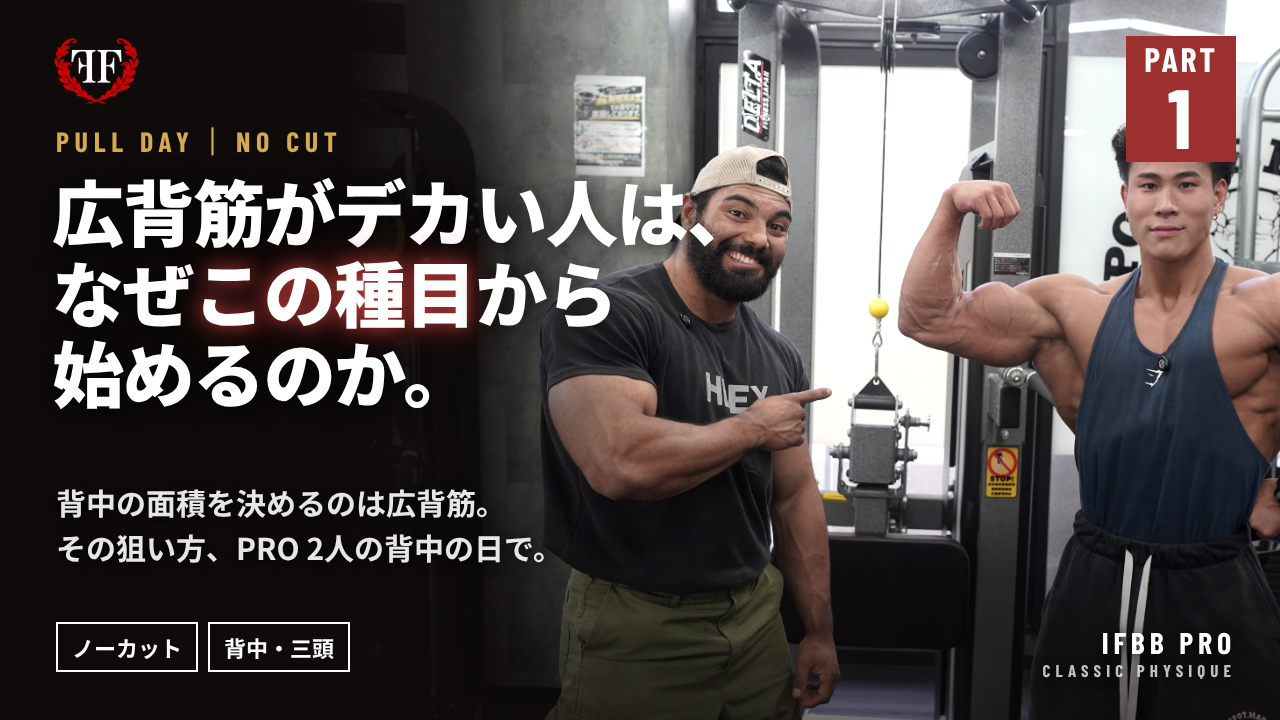
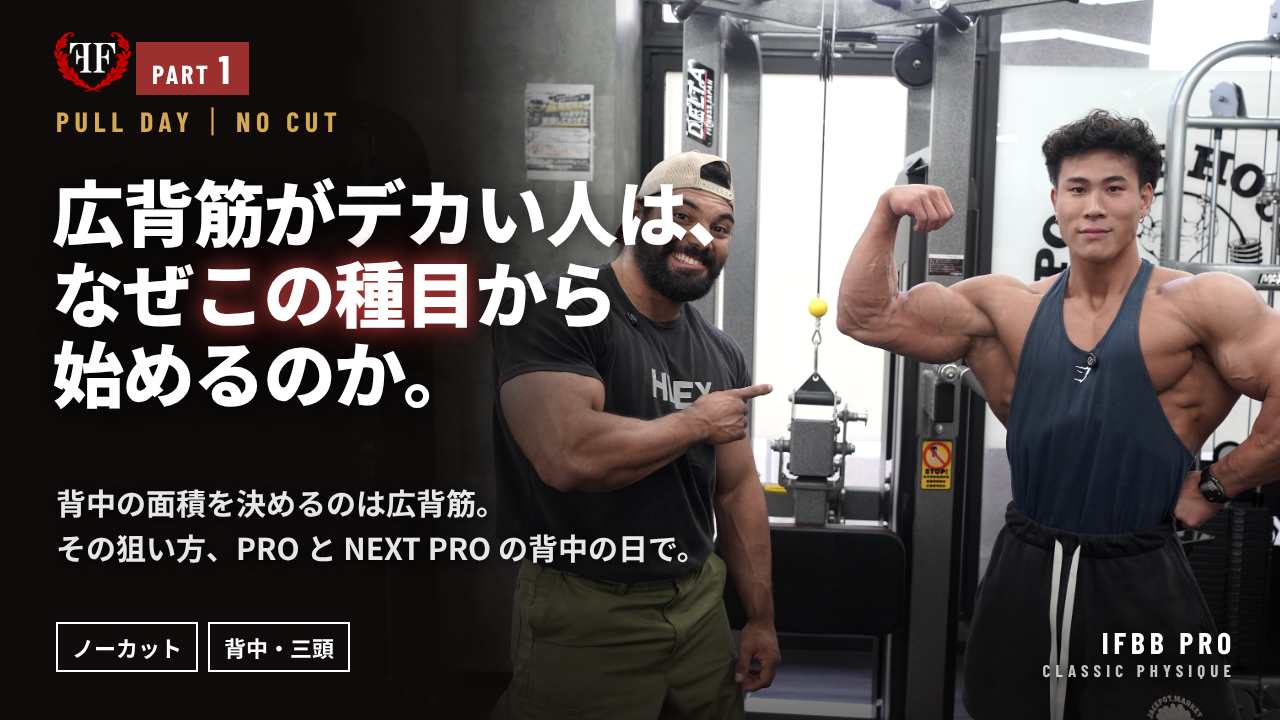
PULL DAY Part 1 thumbnails: fix overlaps, add D/E/F (#76)
* Add UPPER DAY YouTube thumbnails (part 1, 2) and the series thumbnail template

Claude-Session: https://claude.ai/code/session_01HRty6kL8VRnpLHHHzSF3iS

* UPPER DAY thumbnails: reframe to keep the face visible and hide the burned-in caption

Claude-Session: https://claude.ai/code/session_01HRty6kL8VRnpLHHHzSF3iS

* UPPER DAY thumbnails v2: loud yellow/red creator style, distinct from the community look

Claude-Session: https://claude.ai/code/session_01HRty6kL8VRnpLHHHzSF3iS

* UPPER DAY thumbnails v3: competition roar photo plus gym face chip

Claude-Session: https://claude.ai/code/session_01HRty6kL8VRnpLHHHzSF3iS

* UPPER DAY thumbnails: soften hook to Felipe's voice

Claude-Session: https://claude.ai/code/session_01HRty6kL8VRnpLHHHzSF3iS

* UPPER DAY thumbnails: keep the hook line on one row

Claude-Session: https://claude.ai/code/session_01HRty6kL8VRnpLHHHzSF3iS

* UPPER DAY thumbnails: hook label on one line

Claude-Session: https://claude.ai/code/session_01HRty6kL8VRnpLHHHzSF3iS

* UPPER DAY thumbnails on the brand guide: FF black base, white type, laurel red as the single accent, gym press photo; add visual identity PDF

Claude-Session: https://claude.ai/code/session_01HRty6kL8VRnpLHHHzSF3iS

* UPPER DAY thumbnail: three promise-led headline variants on the brand template

Claude-Session: https://claude.ai/code/session_01HRty6kL8VRnpLHHHzSF3iS

* Add post-live story images (thanks + next live 11/23) and story template
[…]

diff --git a/assets/yt/pullday-thumb-template.html b/assets/yt/pullday-thumb-template.html
@@ -4,24 +4,24 @@
 @font-face{font-family:"BC";src:url("../fonts/node_modules/@fontsource/barlow-condensed/files/barlow-condensed-latin-700-normal.woff2") format("woff2");font-weight:700}
 *{margin:0;padding:0;box-sizing:border-box}html,body{width:1280px;height:720px;overflow:hidden;background:#0E0B0A}
 body{font-family:"NS",sans-serif;color:#fff;position:relative}
-.bg{position:absolute;left:340px;top:0;width:940px;height:720px;background:url(two.jpg) 0% 40%/auto 104% no-repeat;filter:contrast(1.08) saturate(.9) brightness(1.05)}
+.bg{position:absolute;left:300px;top:0;width:980px;height:720px;background:url(two.jpg) 0% 45%/auto 100% no-repeat;filter:contrast(1.08) saturate(.9) brightness(1.05)}
 .fade{position:absolute;inset:0;background:linear-gradient(90deg,#0E0B0A 0%,#0E0B0A 27%,rgba(14,11,10,.85) 36%,rgba(14,11,10,.3) 44%,rgba(14,11,10,0) 50%),linear-gradient(180deg,rgba(14,11,10,0) 70%,rgba(14,11,10,.6) 100%)}
-.logo{position:absolute;left:52px;top:36px;height:70px}
-.lbl{position:absolute;left:56px;top:124px;font-family:"BC",sans-serif;font-size:28px;letter-spacing:.2em;color:#D4A94F}
-.h{position:absolute;left:52px;top:170px;font-size:78px;font-weight:900;line-height:1.12;letter-spacing:-.02em;text-shadow:0 4px 24px rgba(0,0,0,.8)}
+.logo{position:absolute;left:52px;top:30px;height:64px}
+.lbl{position:absolute;left:56px;top:104px;font-family:"BC",sans-serif;font-size:28px;letter-spacing:.2em;color:#D4A94F}
+.h{position:absolute;left:52px;top:170px;font-size:72px;font-weight:900;line-height:1.12;letter-spacing:-.02em;text-shadow:0 4px 24px rgba(0,0,0,.8)}
 .h em{font-style:normal;color:#fff;text-shadow:0 0 18px rgba(185,58,56,.95),0 0 40px rgba(185,58,56,.6),0 4px 24px rgba(0,0,0,.8)}
-.sub{position:absolute;left:56px;top:470px;font-size:30px;font-weight:700;color:rgba(255,255,255,.9);line-height:1.5;text-shadow:0 2px 12px rgba(0,0,0,.9)}
+.sub{position:absolute;left:56px;top:480px;font-size:30px;font-weight:700;color:rgba(255,255,255,.9);line-height:1.5;text-shadow:0 2px 12px rgba(0,0,0,.9)}
 .tag{position:absolute;left:56px;bottom:48px;display:flex;gap:10px}
 .tag span{font-size:22px;font-weight:700;border:2px solid #fff;padding:7px 14px}
-.part{position:absolute;right:44px;top:36px;background:#9C302E;font-family:"BC",sans-serif;font-size:34px;letter-spacing:.08em;padding:6px 18px 8px;text-align:center;line-height:1}
-.part b{display:block;font-size:84px;line-height:.9;margin-top:2px}
+.part{position:absolute;left:136px;top:42px;background:#9C302E;font-family:"BC",sans-serif;font-size:26px;letter-spacing:.1em;padding:8px 16px;line-height:1;display:flex;align-items:baseline;gap:8px}
+.part b{font-size:40px;line-height:.9}
 .pro{position:absolute;right:44px;bottom:40px;text-align:right;font-family:"BC",sans-serif;font-size:30px;letter-spacing:.16em;text-shadow:0 2px 12px rgba(0,0,0,.9)}
 .pro small{display:block;font-size:17px;letter-spacing:.3em;color:rgba(255,255,255,.75)}
 </style></head><body>
 <div class="bg"></div><div class="fade"></div>
 <img class="logo" src="logo.png" alt="">
 <p class="lbl">PULL DAY ｜ NO CUT</p>
-<p class="h">背中が<br>広がらない人は、<br><em>種目選択が違う。</em></p><p class="sub">広背筋を大きくする種目は、これ。<br>PRO 2人の背中の日、全部見せます。</p>
+<p class="h">広背筋がデカい人は、<br>なぜ<em>この種目</em>から<br>始めるのか。</p><p class="sub">背中の面積を決めるのは広背筋。<br>その狙い方、PRO と NEXT PRO の背中の日で。</p>
 <div class="tag"><span>ノーカット</span><span>背中・三頭</span></div>
 <div class="part">PART<b>1</b></div>
 <p class="pro">IFBB PRO<small>CLASSIC PHYSIQUE</small></p>
